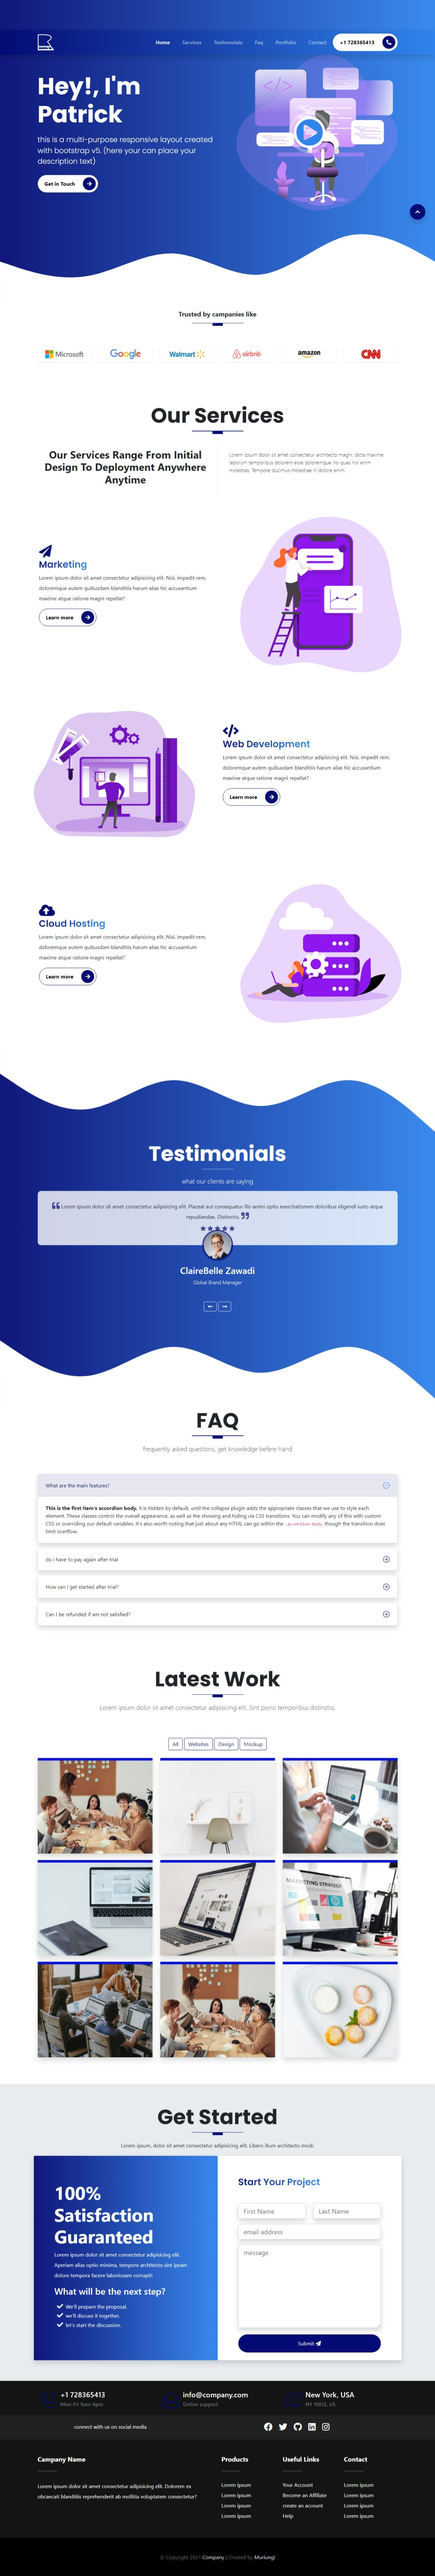
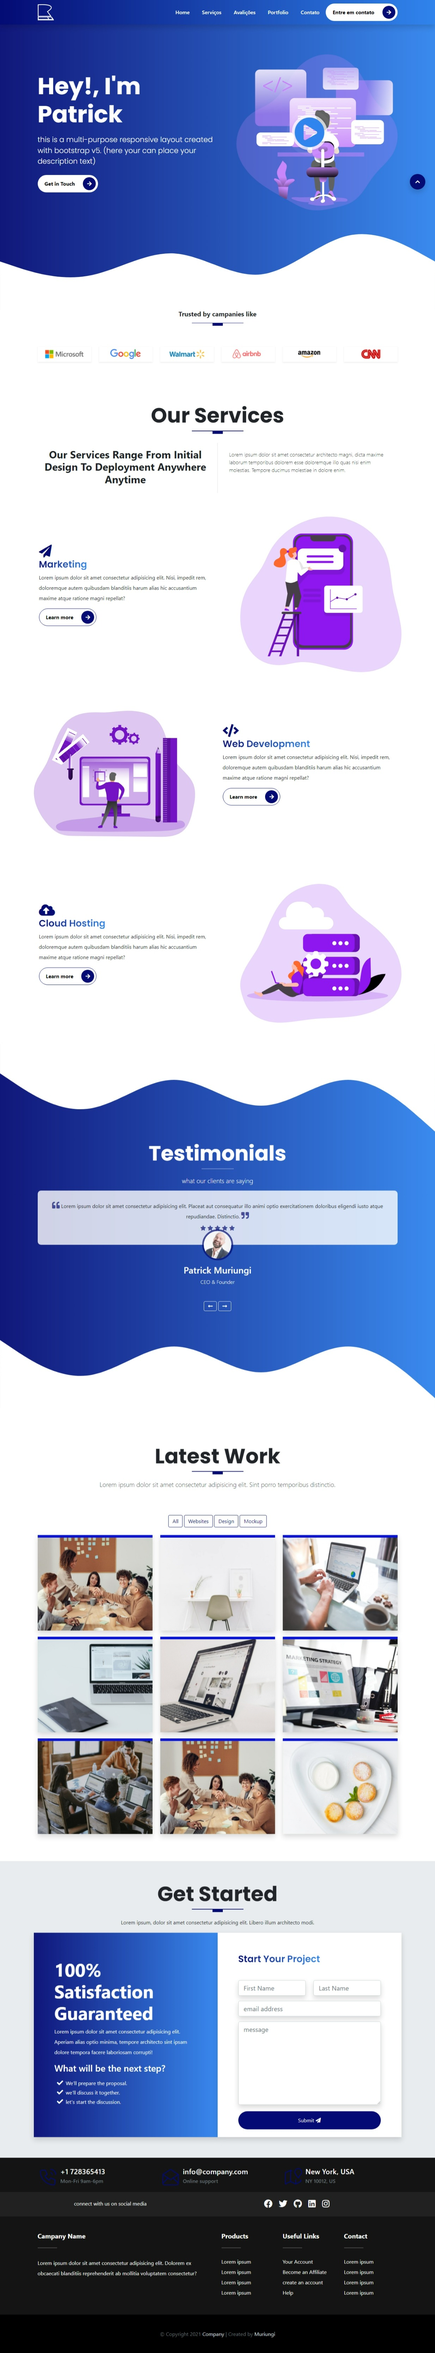
0.2.0 - update navbar

diff --git a/index.html b/index.html
@@ -51,25 +51,28 @@
                             >
                         </li>
                         <li class="nav-item">
-                            <a class="nav-link" href="#">Services</a>
+                            <a class="nav-link" href="#services">Serviços</a>
                         </li>
                         <li class="nav-item">
-                            <a class="nav-link" href="#">Testimonials</a>
+                            <a class="nav-link" href="#testimonials"
+                                >Avalições</a
+                            >
                         </li>
                         <li class="nav-item">
-                            <a class="nav-link" href="#">faq</a>
+                            <a class="nav-link" href="#portfolio">Portfolio</a>
                         </li>
                         <li class="nav-item">
-                            <a class="nav-link" href="#">portfolio</a>
-                        </li>
-                        <li class="nav-item">
-                            <a class="nav-link" href="#">contact</a>
+                            <a class="nav-link" href="#contact">Contato</a>
                         </li>
                     </ul>
-                    <button type="button" class="rounded-pill btn-rounded">
-                        +1 728365413
+                    <button
+                        type="button"
+                        class="rounded-pill btn-rounded"
+                        onclick="window.location.href='#contact'"
+                    >
+                        Entre em contato
                         <span>
-                            <i class="fas fa-phone-alt"></i>
+                            <i class="fas fa-arrow-right"></i>
                         </span>
                     </button>
                 </div>
@@ -553,189 +556,7 @@
             </svg>
         </section>
 
-        <!-- /////////////////////////////////////////////////////////////////////////////////////////////////
-                       START SECTION 6 - THE FAQ 
-//////////////////////////////////////////////////////////////////////////////////////////////////////-->
-        <section id="faq" class="faq">
-            <div class="container">
-                <div class="row text-center">
-                    <h1 class="display-3 fw-bold text-uppercase">faq</h1>
-                    <div class="heading-line"></div>
-                    <p class="lead">
-                        frequently asked questions, get knowledge befere hand
-                    </p>
-                </div>
-                <!-- ACCORDION CONTENT  -->
-                <div class="row mt-5">
-                    <div class="col-md-12">
-                        <div class="accordion" id="accordionExample">
-                            <!-- ACCORDION ITEM 1 -->
-                            <div class="accordion-item shadow mb-3">
-                                <h2 class="accordion-header" id="headingOne">
-                                    <button
-                                        class="accordion-button"
-                                        type="button"
-                                        data-bs-toggle="collapse"
-                                        data-bs-target="#collapseOne"
-                                        aria-expanded="true"
-                                        aria-controls="collapseOne"
-                                    >
-                                        What are the main features?
-                                    </button>
-                                </h2>
-                                <div
-                                    id="collapseOne"
-                                    class="accordion-collapse collapse show"
-                                    aria-labelledby="headingOne"
-                                    data-bs-parent="#accordionExample"
-                                >
-                                    <div class="accordion-body">
-                                        <strong
-                                            >This is the first item's accordion
-                                            body.</strong
-                                        >
-                                        It is hidden by default, until the
-                                        collapse plugin adds the appropriate
-                                        classes that we use to style each
-                                        element. These classes control the
-                                        overall appearance, as well as the
-                                        showing and hiding via CSS transitions.
-                                        You can modify any of this with custom
-                                        CSS or overriding our default variables.
-                                        It's also worth noting that just about
-                                        any HTML can go within the
-                                        <code>.accordion-body</code>, though the
-                                        transition does limit overflow.
-                                    </div>
-                                </div>
-                            </div>
-                            <!-- ACCORDION ITEM 2 -->
-                            <div class="accordion-item shadow mb-3">
-                                <h2 class="accordion-header" id="headingTwo">
-                                    <button
-                                        class="accordion-button collapsed"
-                                        type="button"
-                                        data-bs-toggle="collapse"
-                                        data-bs-target="#collapseTwo"
-                                        aria-expanded="false"
-                                        aria-controls="collapseTwo"
-                                    >
-                                        do i have to pay again after trial
-                                    </button>
-                                </h2>
-                                <div
-                                    id="collapseTwo"
-                                    class="accordion-collapse collapse"
-                                    aria-labelledby="headingTwo"
-                                    data-bs-parent="#accordionExample"
-                                >
-                                    <div class="accordion-body">
-                                        <strong
-                                            >This is the second item's accordion
-                                            body.</strong
-                                        >
-                                        It is hidden by default, until the
-                                        collapse plugin adds the appropriate
-                                        classes that we use to style each
-                                        element. These classes control the
-                                        overall appearance, as well as the
-                                        showing and hiding via CSS transitions.
-                                        You can modify any of this with custom
-                                        CSS or overriding our default variables.
-                                        It's also worth noting that just about
-                                        any HTML can go within the
-                                        <code>.accordion-body</code>, though the
-                                        transition does limit overflow.
-                                    </div>
-                                </div>
-                            </div>
-                            <!-- ACCORDION ITEM 3 -->
-                            <div class="accordion-item shadow mb-3">
-                                <h2 class="accordion-header" id="headingThree">
-                                    <button
-                                        class="accordion-button collapsed"
-                                        type="button"
-                                        data-bs-toggle="collapse"
-                                        data-bs-target="#collapseThree"
-                                        aria-expanded="false"
-                                        aria-controls="collapseThree"
-                                    >
-                                        How can I get started after trial?
-                                    </button>
-                                </h2>
-                                <div
-                                    id="collapseThree"
-                                    class="accordion-collapse collapse"
-                                    aria-labelledby="headingThree"
-                                    data-bs-parent="#accordionExample"
-                                >
-                                    <div class="accordion-body">
-                                        <strong
-                                            >This is the third item's accordion
-                                            body.</strong
-                                        >
-                                        It is hidden by default, until the
-                                        collapse plugin adds the appropriate
-                                        classes that we use to style each
-                                        element. These classes control the
-                                        overall appearance, as well as the
-                                        showing and hiding via CSS transitions.
-                                        You can modify any of this with custom
-                                        CSS or overriding our default variables.
-                                        It's also worth noting that just about
-                                        any HTML can go within the
-                                        <code>.accordion-body</code>, though the
-                                        transition does limit overflow.
-                                    </div>
-                                </div>
-                            </div>
-                            <!-- ACCORDION ITEM 4 -->
-                            <div class="accordion-item shadow mb-3">
-                                <h2 class="accordion-header" id="headingFour">
-                                    <button
-                                        class="accordion-button collapsed"
-                                        type="button"
-                                        data-bs-toggle="collapse"
-                                        data-bs-target="#collapseFour"
-                                        aria-expanded="false"
-                                        aria-controls="collapseFour"
-                                    >
-                                        Can I be refunded if am not satisfied?
-                                    </button>
-                                </h2>
-                                <div
-                                    id="collapseFour"
-                                    class="accordion-collapse collapse"
-                                    aria-labelledby="headingFour"
-                                    data-bs-parent="#accordionExample"
-                                >
-                                    <div class="accordion-body">
-                                        <strong
-                                            >This is the third item's accordion
-                                            body.</strong
-                                        >
-                                        It is hidden by default, until the
-                                        collapse plugin adds the appropriate
-                                        classes that we use to style each
-                                        element. These classes control the
-                                        overall appearance, as well as the
-                                        showing and hiding via CSS transitions.
-                                        You can modify any of this with custom
-                                        CSS or overriding our default variables.
-                                        It's also worth noting that just about
-                                        any HTML can go within the
-                                        <code>.accordion-body</code>, though the
-                                        transition does limit overflow.
-                                    </div>
-                                </div>
-                            </div>
-                        </div>
-                    </div>
-                </div>
-            </div>
-        </section>
-
-        <!-- ///////////////////////////////////////////////////////////////////////////////////////////////////
+<!-- ///////////////////////////////////////////////////////////////////////////////////////////////////
                               START SECTION 7 - THE PORTFOLIO  
 //////////////////////////////////////////////////////////////////////////////////////////////////////-->
 

diff --git a/scss/sections/_navbar.scss b/scss/sections/_navbar.scss
@@ -4,17 +4,16 @@
 .menu {
     @include gradient;
 
-
     li {
       padding: 0 0.7rem;
 
       a {
-        color: $white;
-        padding: 0 0.7rem;
+        color: $white !important;
         text-transform: capitalize;
         font-weight: 600;      
 
       }
+      
       &:hover {
         color: $white;
       }

diff --git a/assets/css/style.css b/assets/css/style.css
@@ -10872,8 +10872,7 @@ textarea.form-control-lg {
   padding: 0 0.7rem;
 }
 .menu li a {
-  color: #fff;
-  padding: 0 0.7rem;
+  color: #fff !important;
   text-transform: capitalize;
   font-weight: 600;
 }

diff --git a/README.md b/README.md
@@ -28,6 +28,9 @@
 
 ## Versioning ([SemVer](http://semver.org/))
 
+-   0.2.0
+    -   Update: navbar
+    -   Remove: FAQ section
 -   0.1.0
     -   Update: initial personalization
         -   CSS
@@ -37,12 +40,10 @@
 
 ## Backlog
 
--   Update: navbar
 -   Update: Intro section
 -   Update: Companies section
 -   Update: Services section
 -   Update: testimonial section
--   Remove: FAQ section
 -   Update: portfolio section
 -   Update: Get started section
 -   Update: Footer
